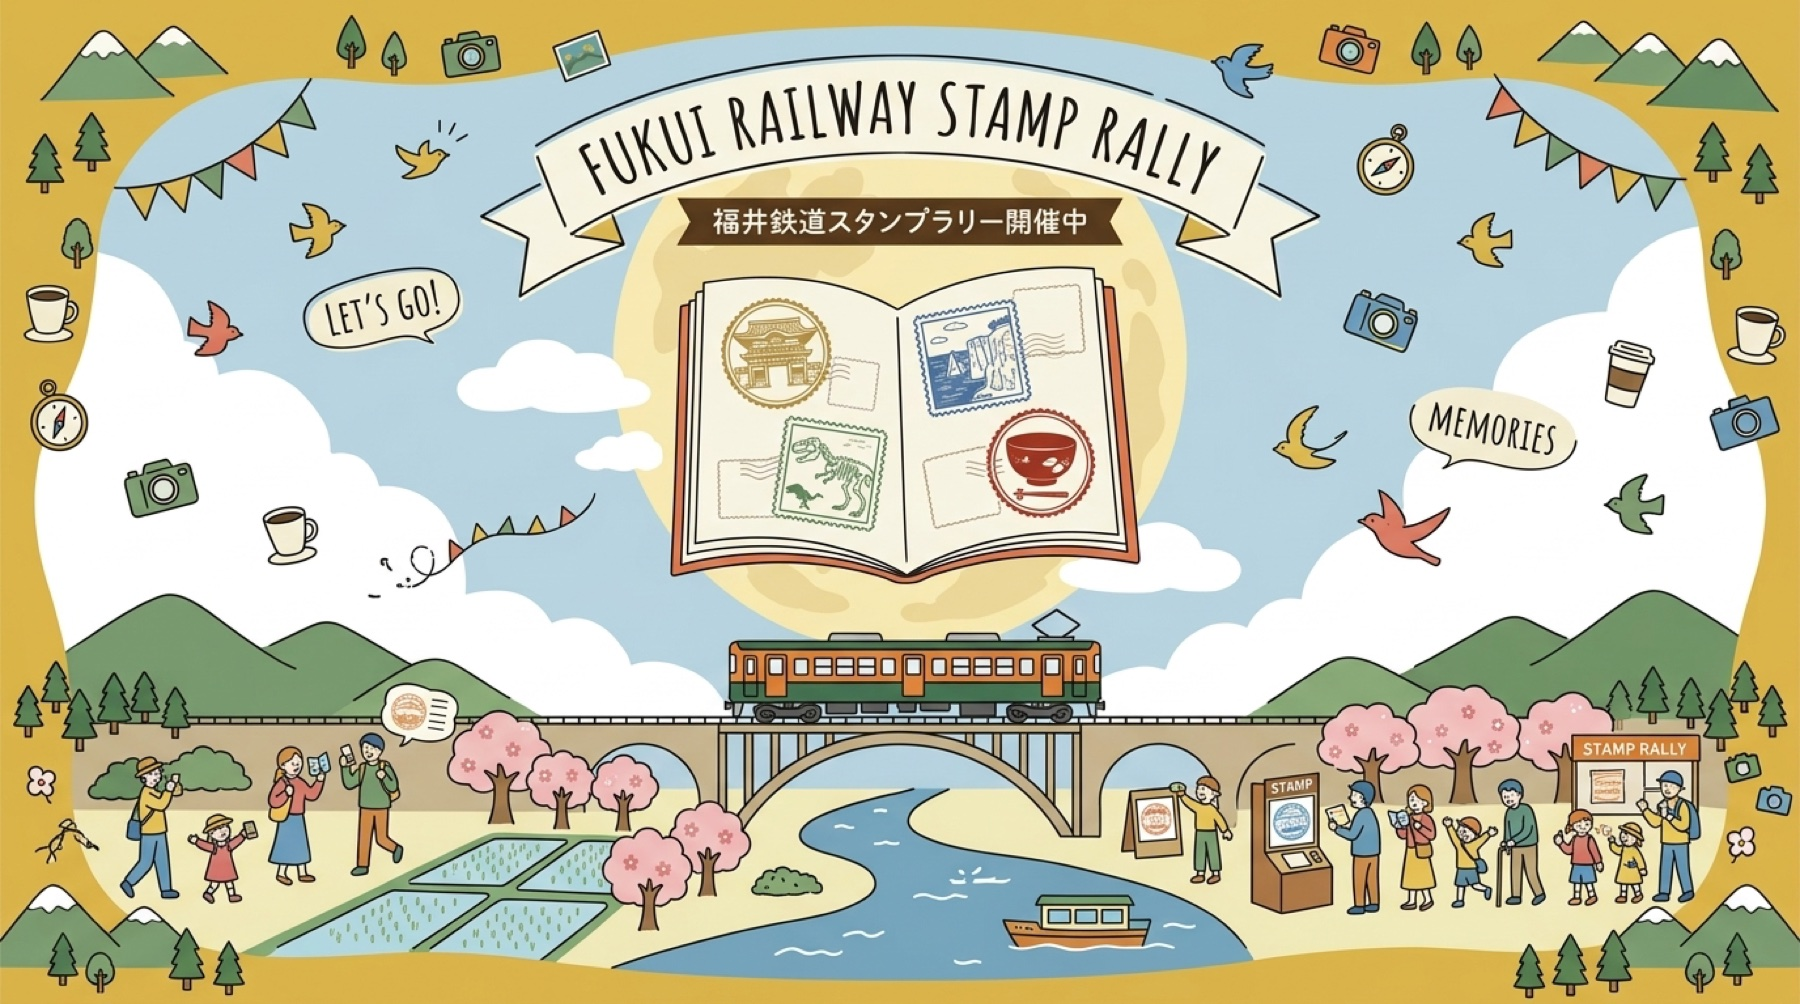
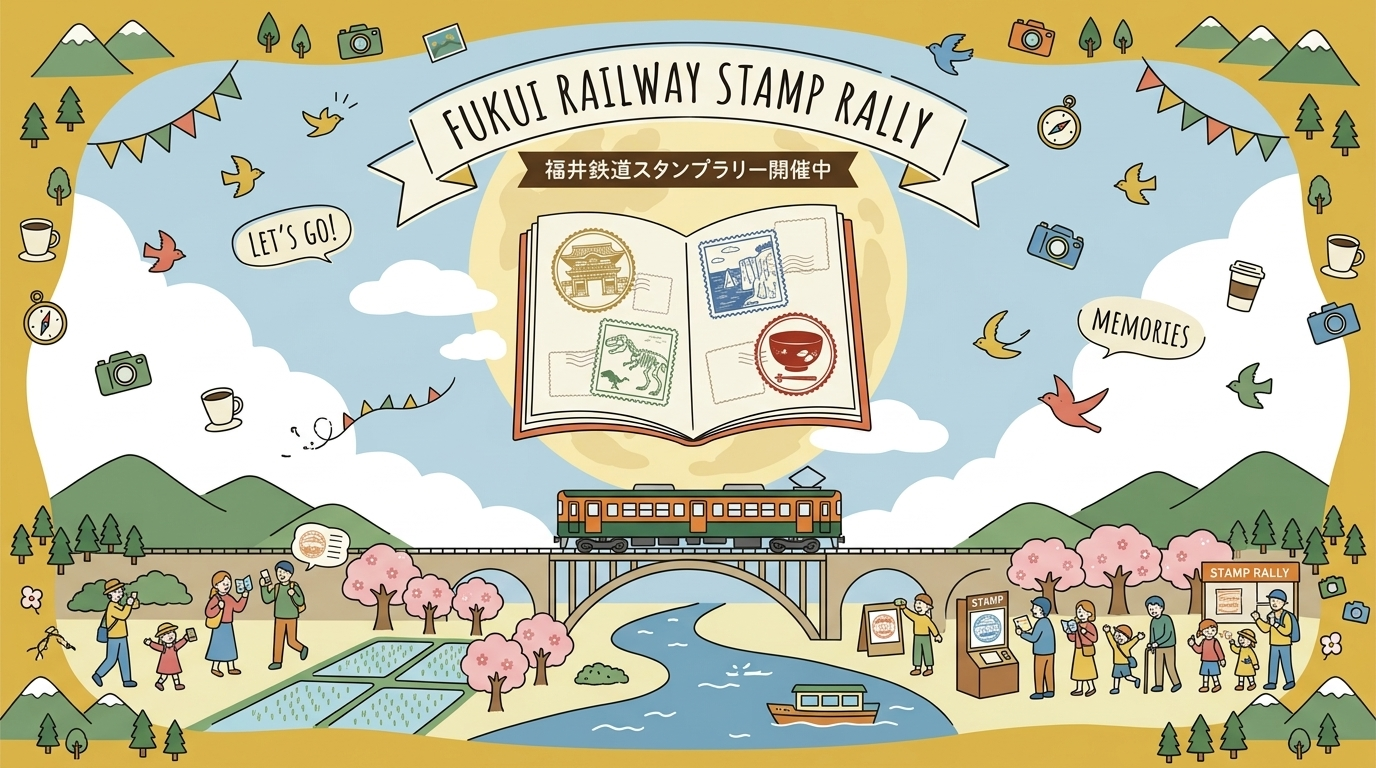
福鉄: hero art を 実車写真 → イラスト版 に 差替 (オーナー支給 素材)
- hd-art の 電車写真 (00_bg_tram_wide.webp) → イラスト (00_hero_illustration.webp) へ swap
- radial gradient overlay + drop-shadow を 削除 (イラスト自体が完成された画)
- preload も イラスト側 に 差替
- 宝探紀行 catch copy は 下段 hd-info に そのまま維持

diff --git a/fukutetsu-stamp-rally/index.html b/fukutetsu-stamp-rally/index.html
@@ -15,7 +15,7 @@
 <link rel="apple-touch-icon" href="./photos/icon-192.png">
 <link rel="preconnect" href="https://fonts.googleapis.com">
 <link rel="preconnect" href="https://fonts.gstatic.com" crossorigin>
-<link rel="preload" as="image" href="./photos/00_bg_tram_wide.webp" fetchpriority="high">
+<link rel="preload" as="image" href="./photos/00_hero_illustration.webp" fetchpriority="high">
 <link href="https://fonts.googleapis.com/css2?family=Noto+Sans+JP:wght@400;500;700;900&family=JetBrains+Mono:wght@400;500;700&display=swap" rel="stylesheet">
 <style>
 :root{
@@ -68,9 +68,8 @@ button,input,select{font-family:inherit;color:inherit;-webkit-appearance:none;ap
 .hd .who .av img{width:100%;height:100%;object-fit:cover;border-radius:50%}
 .hd .who .nm{font-size:12px;font-weight:700;color:var(--ink);max-width:14ch;overflow:hidden;text-overflow:ellipsis;white-space:nowrap}
 .hd .who button.chg{background:transparent;border:none;padding:0 4px;color:var(--dim);font-size:11px;cursor:pointer;font-weight:500}
-.hd-art{position:relative;padding:0 20px 4px;display:flex;justify-content:center;align-items:flex-end;min-height:150px}
-.hd-art::before{content:"";position:absolute;left:20px;right:20px;top:0;bottom:0;background:radial-gradient(ellipse at 50% 60%,oklch(1 0 0 / .35) 0%,transparent 60%);pointer-events:none}
-.hd-art img{width:100%;max-width:420px;height:auto;display:block;position:relative;z-index:1;filter:drop-shadow(0 6px 12px oklch(0 0 0 / .15))}
+.hd-art{position:relative;padding:0;display:block;overflow:hidden;background:oklch(0.86 0.09 82)}
+.hd-art img{width:100%;height:auto;display:block;position:relative;z-index:1}
 .hd-info{padding:16px 20px 14px;background:var(--paper);display:block;border-top:1.5px dashed color-mix(in oklch,var(--ink) 30%,transparent);position:relative}
 .hd-catch{display:grid;grid-template-columns:36px 1fr;gap:12px;align-items:start}
 .hd-catch-label{width:36px;height:36px;background:var(--ink);color:var(--paper);display:flex;align-items:center;justify-content:center;font-size:20px;font-weight:900;line-height:1;font-family:"Noto Sans JP",sans-serif;letter-spacing:0}
@@ -593,7 +592,7 @@ button,input,select{font-family:inherit;color:inherit;-webkit-appearance:none;ap
       </div>
     </div>
     <div class="hd-art">
-      <img src="photos/00_bg_tram_wide.webp" alt="福井鉄道 福武線 · 走行風景" width="803" height="520" loading="eager" fetchpriority="high">
+      <img src="photos/00_hero_illustration.webp" alt="福井鉄道スタンプラリー · 福武線 沿線10地点" width="1376" height="768" loading="eager" fetchpriority="high">
     </div>
     <div class="hd-info">
       <div class="hd-catch">
